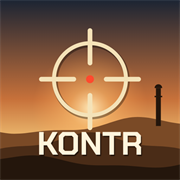
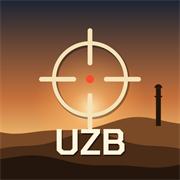
Nomi UZB Strike: sarlavha, logotip, manifest, ikonkalar, maxfiylik siyosati

Changed region(s): [[0.1944, 0.6944, 0.8056, 0.8889]]

diff --git a/privacy.html b/privacy.html
@@ -3,7 +3,7 @@
 <head>
 <meta charset="utf-8">
 <meta name="viewport" content="width=device-width, initial-scale=1">
-<title>Maxfiylik siyosati — Kontr: Qumtepa</title>
+<title>Maxfiylik siyosati — UZB Strike</title>
 <link rel="icon" href="icons/favicon-32.png">
 <style>
 :root{color-scheme:light dark;--bg:#f6f3ee;--text:#1d1b18;--muted:#5d5850;--line:#ddd5c8;--accent:#9a6a1f}
@@ -21,9 +21,9 @@ li{margin:4px 0}
 <body>
 <main>
   <h1>Maxfiylik siyosati</h1>
-  <p class="meta">Kontr: Qumtepa · oxirgi yangilanish: 2026-yil 6-noyabr</p>
+  <p class="meta">UZB Strike · oxirgi yangilanish: 2026-yil 6-noyabr</p>
 
-  <p>Kontr: Qumtepa — brauzerda va Android ilovasida ishlaydigan 3D o‘yin. Bu sahifa o‘yin qanday ma’lumotlardan foydalanishini tushuntiradi.</p>
+  <p>UZB Strike — brauzerda va Android ilovasida ishlaydigan 3D o‘yin. Bu sahifa o‘yin qanday ma’lumotlardan foydalanishini tushuntiradi.</p>
 
   <h2>Biz hech qanday shaxsiy ma’lumot yig‘maymiz</h2>
   <ul>
@@ -59,8 +59,8 @@ li{margin:4px 0}
 
   <h1 lang="en">Privacy Policy</h1>
   <div lang="en">
-    <p class="meta">Kontr: Qumtepa · last updated November 6, 2026</p>
-    <p>Kontr: Qumtepa is a 3D game that runs in the browser and as an Android app.</p>
+    <p class="meta">UZB Strike · last updated November 6, 2026</p>
+    <p>UZB Strike is a 3D game that runs in the browser and as an Android app.</p>
     <h2>We do not collect personal data</h2>
     <ul>
       <li>There is no sign-up, account or login.</li>

diff --git a/index.html b/index.html
@@ -4,7 +4,7 @@
 <meta charset="utf-8">
 <meta name="viewport" content="width=device-width, initial-scale=1, maximum-scale=1, user-scalable=no, viewport-fit=cover">
 <meta name="description" content="Brauzerda ishlaydigan 3D taktik shooter: 4 xarita, 5x5 botlar, raundlar, iqtisod, bunnyhop va spray naqshlari.">
-<title>Kontr Qumtepa</title>
+<title>UZB Strike</title>
 <link rel="manifest" href="manifest.webmanifest">
 <meta name="theme-color" content="#0c0f12">
 <link rel="icon" type="image/png" sizes="32x32" href="icons/favicon-32.png">
@@ -522,7 +522,7 @@ tr.me td{color:var(--sand);font-weight:600}
 
 <section id="menu" class="overlay menu">
   <header class="topbar">
-    <div class="logo">KONTR<span>QUMTEPA</span></div>
+    <div class="logo">UZB<span>STRIKE</span></div>
     <nav class="nav" id="mainNav">
       <button type="button" data-nav="play" aria-pressed="true">O‘YNASH</button>
       <button type="button" data-nav="inv">INVENTAR</button>

diff --git a/sw.js b/sw.js
@@ -1,4 +1,4 @@
-// Kontr: Qumtepa — offline support. Network first (so updates arrive at once), cache as the fallback.
+// UZB Strike — offline support. Network first (so updates arrive at once), cache as the fallback.
 const CACHE = 'kontr-v1';
 const CORE = ['./', 'index.html', 'manifest.webmanifest', 'icons/icon-192.png', 'icons/icon-512.png',
   'https://cdnjs.cloudflare.com/ajax/libs/three.js/r128/three.min.js',

diff --git a/README.md b/README.md
@@ -1,4 +1,4 @@
-# Kontr: Qumtepa
+# UZB Strike
 
 Brauzerda ishlaydigan 3D taktik shooter (Counter-Strike uslubida). O‘rnatish shart emas — havolani oching va o‘ynang.
 
